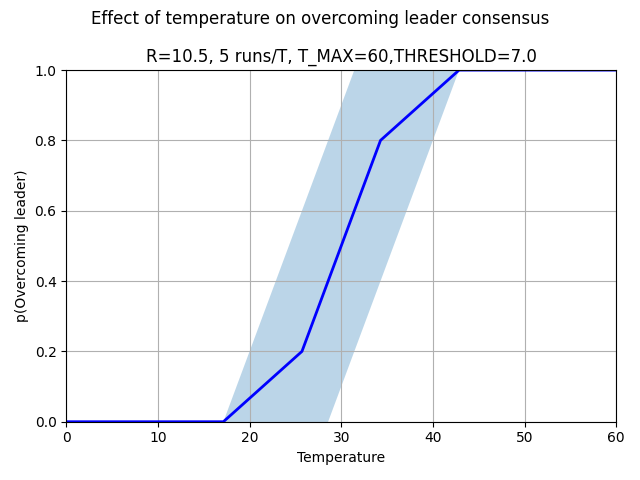
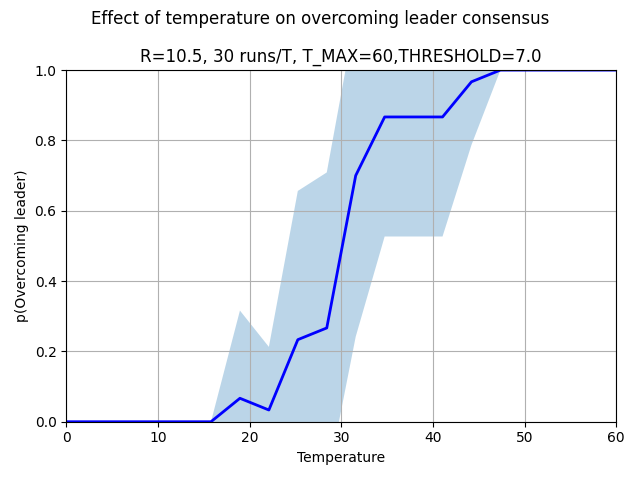
Critical temperature plot medium resolution done

diff --git a/demos/threshold_plot.py b/demos/threshold_plot.py
@@ -17,7 +17,7 @@ import csv
 ################################
 
 NUMBER_OF_T_VALUES_TO_TEST = 20 # Should be 20
-SIMS_PER_T_VALUE = 30 # Should be 20
+SIMS_PER_T_VALUE = 30 # Should be 30 for final one!
 T_MAX = 60
 
 
